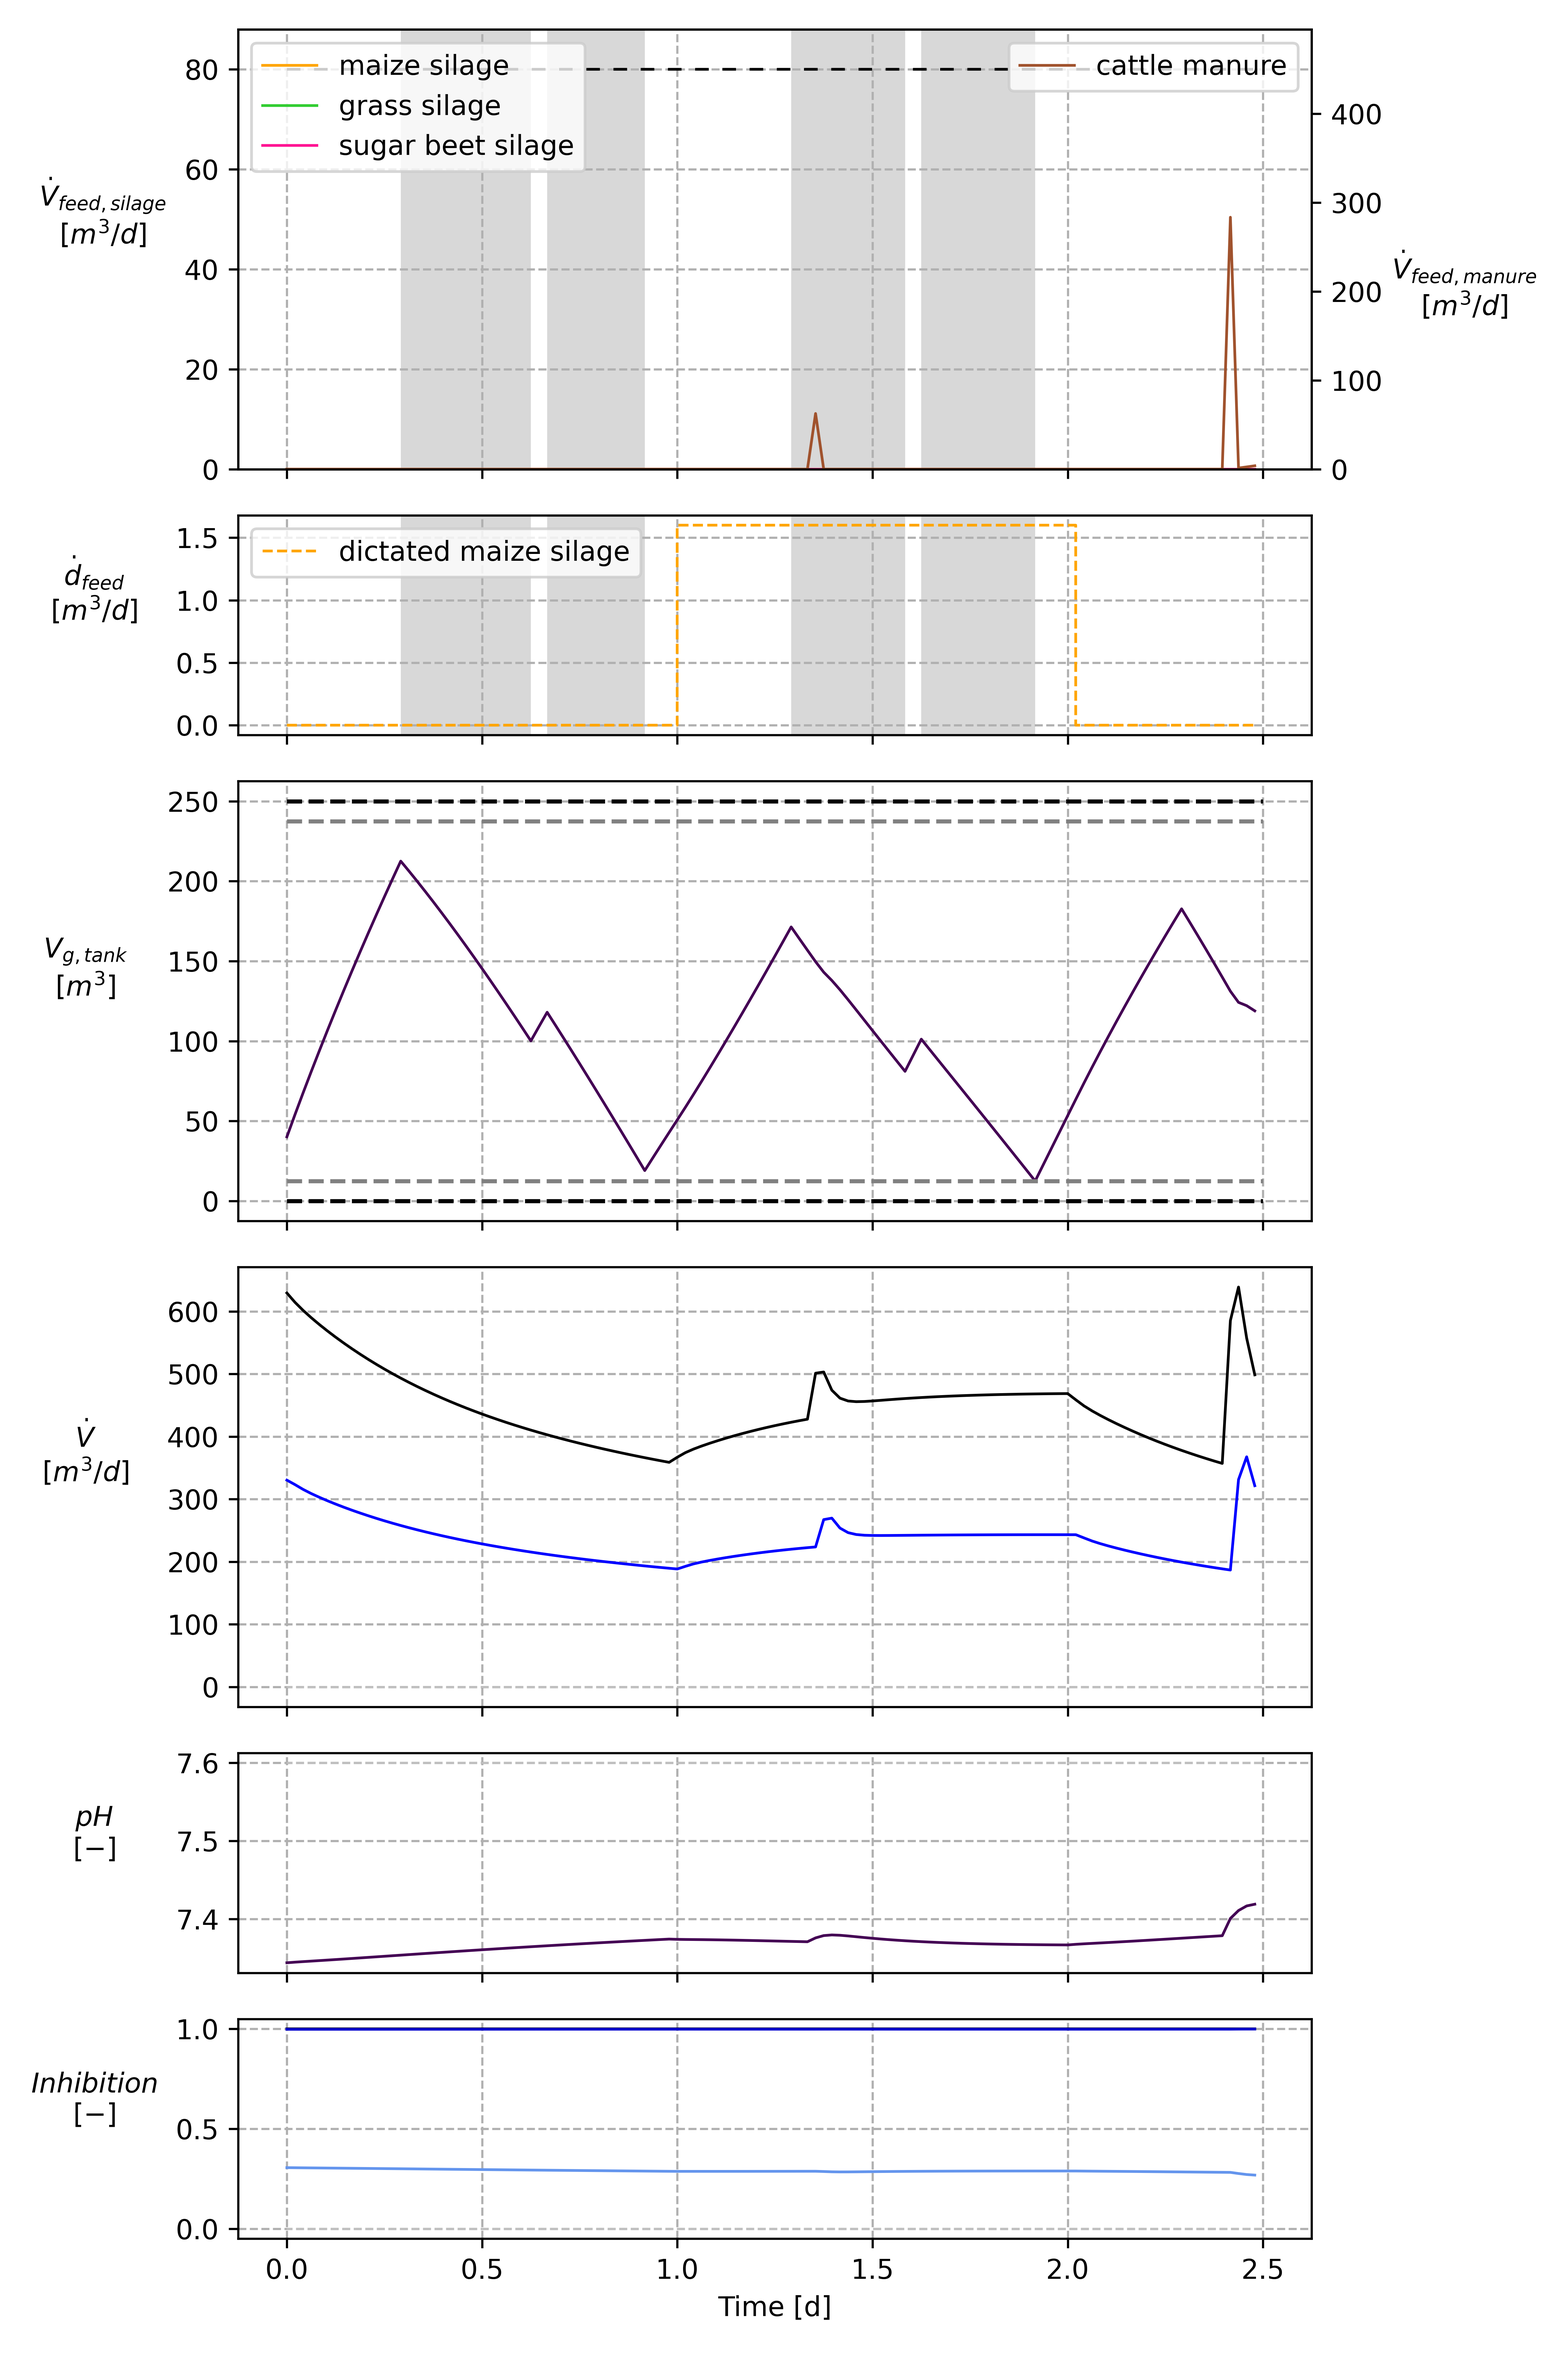
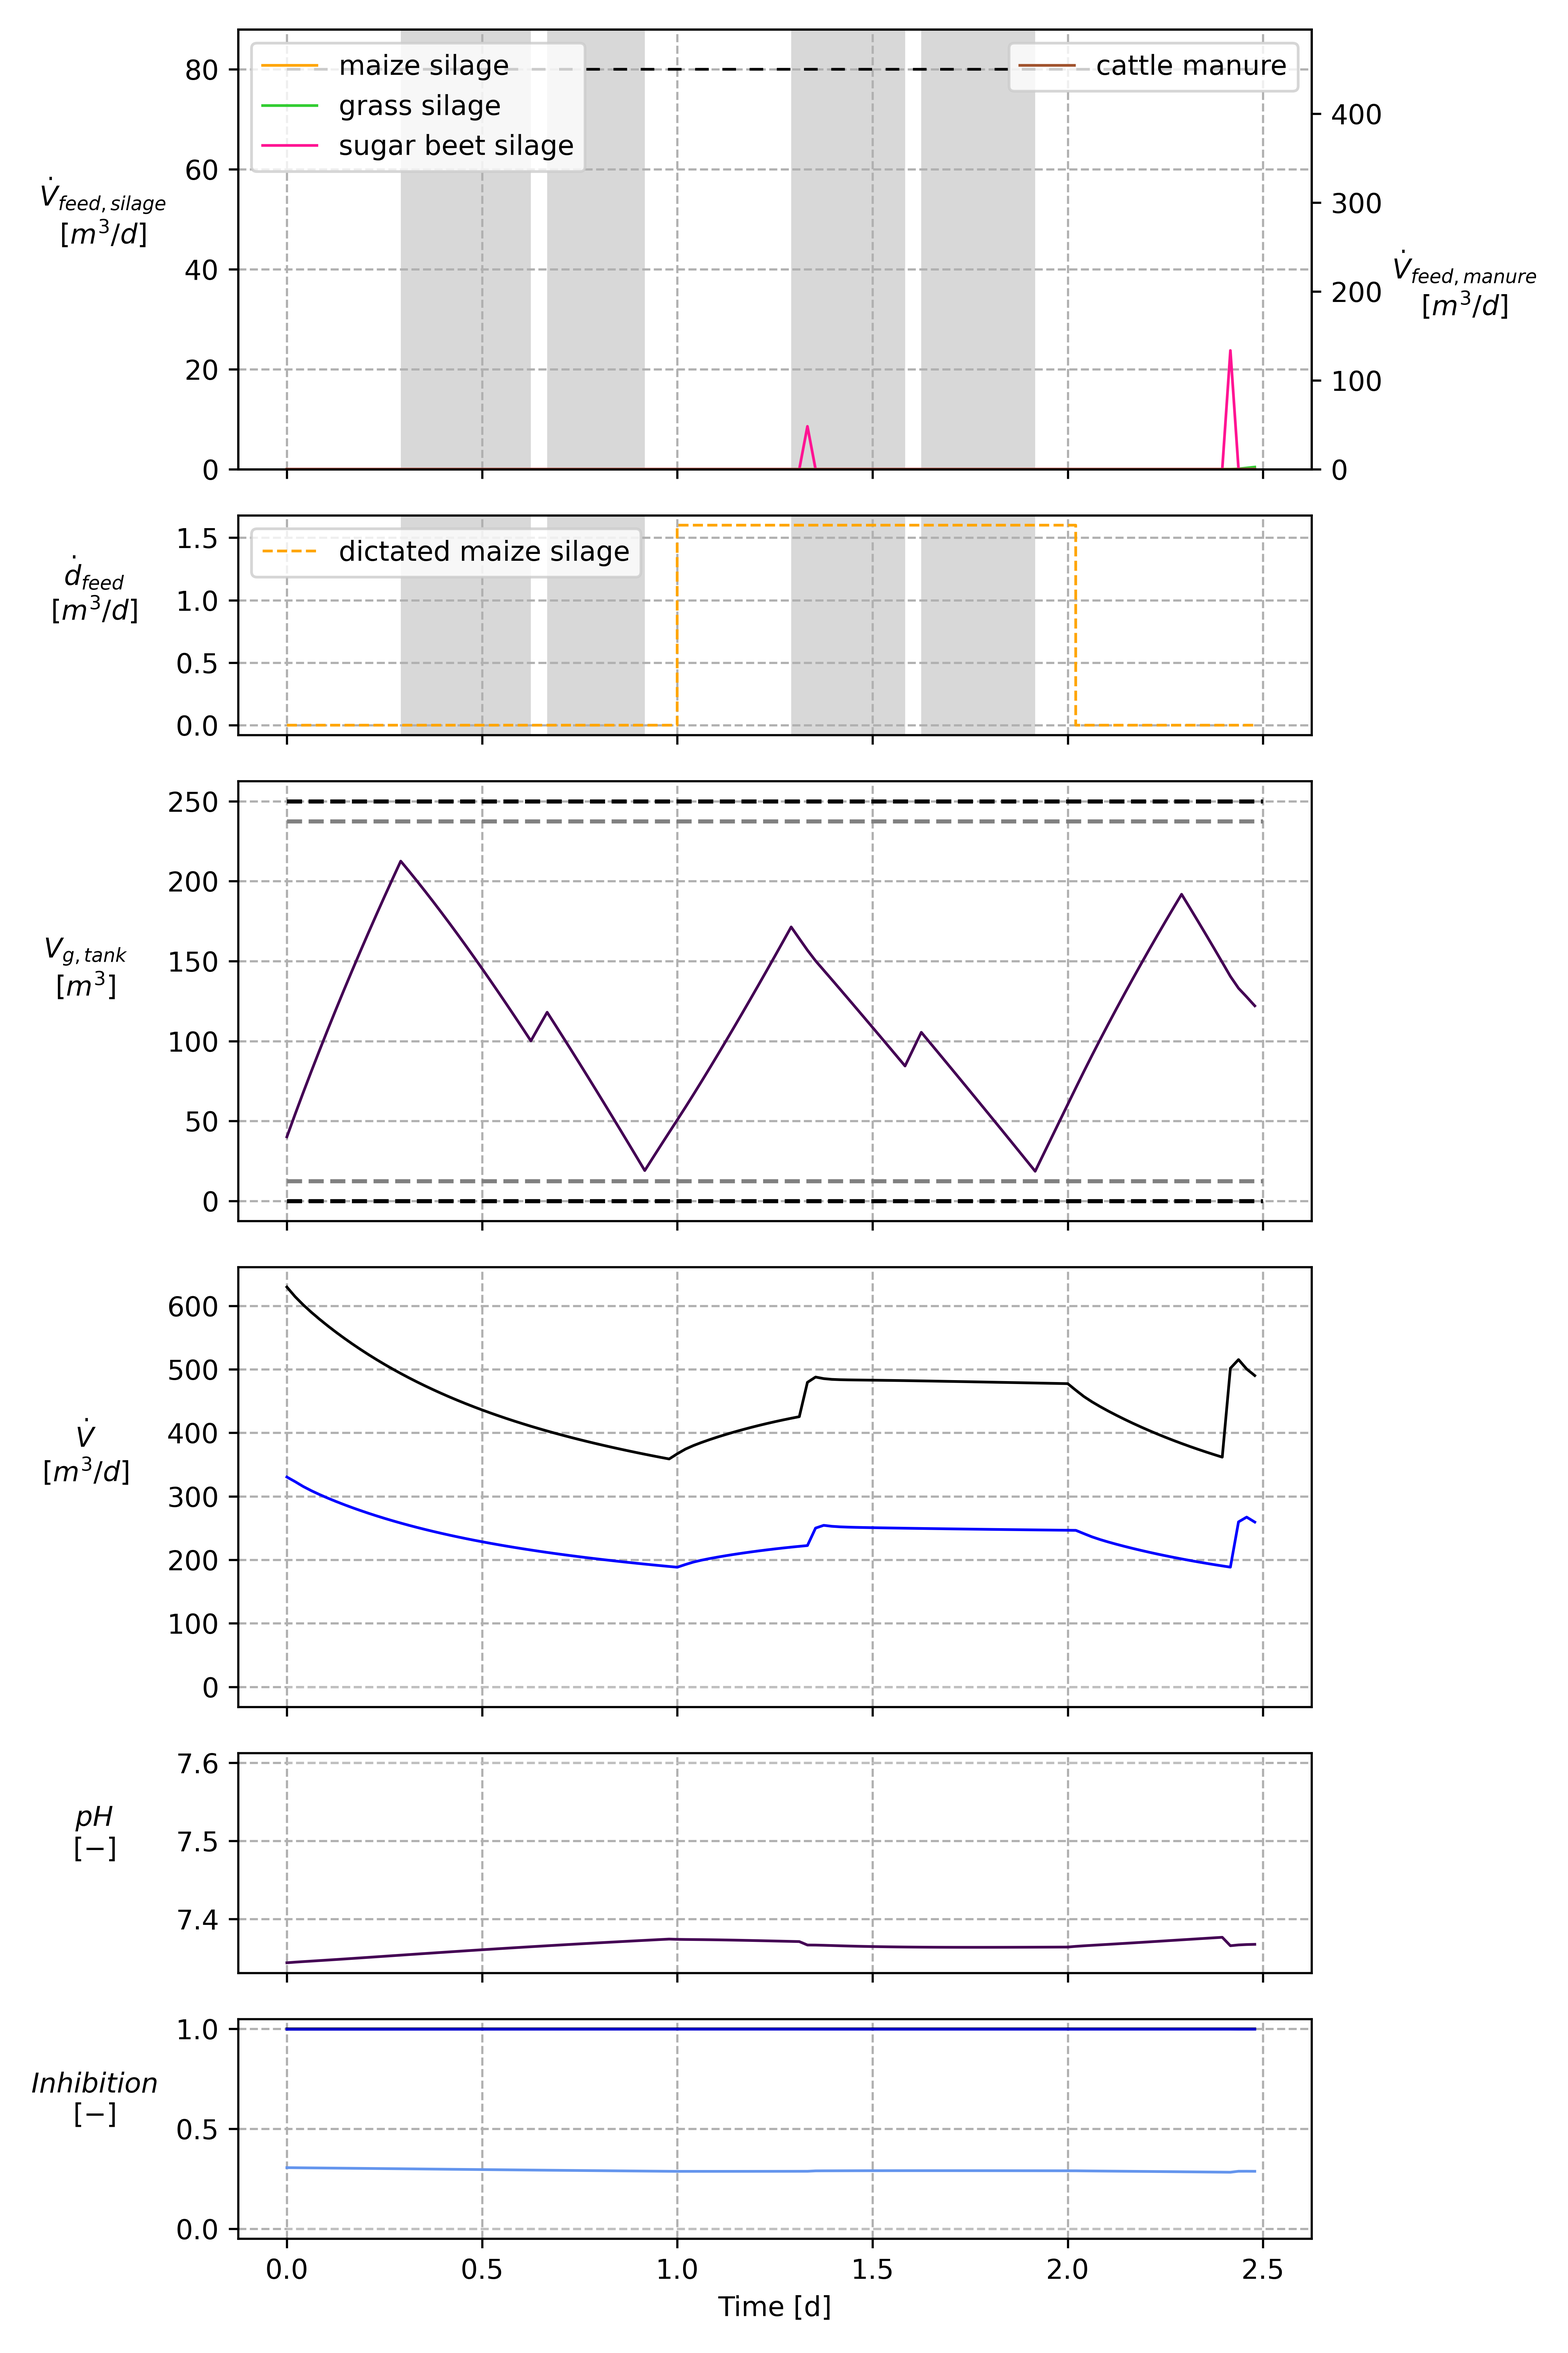
fix bug in substrate cost function (rterm)
absolute substrate vol flows need to be penalized, not normalized ones. This gave too much privilege to cattle manure

diff --git a/ad_meal_prep_control/models/adm1_r3_frac_norm.py b/ad_meal_prep_control/models/adm1_r3_frac_norm.py
@@ -26,7 +26,7 @@ def adm1_r3_frac_norm(
     model_type = "continuous"
     model = do_mpc.model.Model(model_type, "SX")
 
-    num_inputs = xi_norm[0].shape[0] - num_dictated_subs
+    num_inputs = xi_norm[0].shape[0] - num_dictated_subs  # __SH: consider only controlled substrates as real inputs
 
     xi_norm[5] = model.set_variable(
         var_type="_p", var_name="xi_ch_norm", shape=(len(xi_norm[0]), 1)
@@ -323,7 +323,7 @@ def adm1_r3_frac_norm(
         ]
     ).transpose()
 
-    # Input
+    # normalized input
     u_norm = model.set_variable(var_type="_u", var_name="u_norm", shape=(num_inputs, 1))
 
     if num_dictated_subs:
@@ -468,7 +468,7 @@ def adm1_r3_frac_norm(
     else:
         sum_u = Tu * u_norm
 
-    # Measurements
+    # Measurements, __SH: y contains first absolute feed volume flows, then actual measurements
     u_meas = model.set_meas("u_meas", Tu * u_norm, meas_noise=False)
     y_meas = []
     for idx, y in enumerate(y):

diff --git a/ad_meal_prep_control/mpc.py b/ad_meal_prep_control/mpc.py
@@ -33,6 +33,7 @@ def mpc_setup(
     cost_func: CostFunction,
     substrate_costs: list[float],
     substrate_cost_formulation: str,
+    Tu: np.ndarray,
     store_full_solution: bool,
     disturbances: Disturbances,
     gas_storage_bound_fraction: float,
@@ -187,10 +188,10 @@ def mpc_setup(
 
         if substrate_cost_formulation == "linear":
             for idx, cost in enumerate(substrate_costs):
-                sub_cost_rterms.append(f"{cost} * (model.u['u_norm'][{idx}])")
+                sub_cost_rterms.append(f"{cost} * (model.u['u_norm'][{idx}] * {Tu[idx]})")  # __SH: penalize absolute vol flows of substrates (not normalized ones)
         else:
             for idx, cost in enumerate(substrate_costs):
-                sub_cost_rterms.append(f"{cost} * (model.u['u_norm'][{idx}])**2")
+                sub_cost_rterms.append(f"{cost} * (model.u['u_norm'][{idx}] * {Tu[idx]})**2")
 
         sub_cost_rterm = " + ".join(sub_cost_rterms)
 

diff --git a/ad_meal_prep_control/simulation.py b/ad_meal_prep_control/simulation.py
@@ -197,6 +197,7 @@ class Simulation:
                 cost_func=self.scenario.controller_params.cost_func,
                 substrate_costs=[sub.cost for sub in self._subs_controlled],
                 substrate_cost_formulation=self.scenario.controller_params.substrate_cost_formulation,
+                Tu=self.Tu,
                 store_full_solution=True,
                 disturbances=self.scenario.disturbances,
                 gas_storage_bound_fraction=self.scenario.controller_params.gas_storage_bound_fraction,
@@ -429,7 +430,7 @@ class Simulation:
             self.x0_norm_estimated = self.x0_norm_estimated[:18]
             self.Tx = self.Tx[:18]
 
-        self.Tu = np.array([self.scenario.u_max[sub.state] for sub in self._subs_all])
+        self.Tu = np.array([self.scenario.u_max[sub.state] for sub in self._subs_all])  # __SH: normalization of input
         self.scenario.Tu = self.Tu
 
     def _model_setup(self):

diff --git a/ad_meal_prep_control/scenarios/scenario_2b.py b/ad_meal_prep_control/scenarios/scenario_2b.py
@@ -9,8 +9,8 @@ from ad_meal_prep_control.params_R3 import P_el_chp
 import numpy as np
 
 fill_level_setpoint = 0.4
-lterm = (f"(5*(model.x['x_19'] + model.x['x_20'] + model.aux['V_H2O']/V_GAS_STORAGE_MAX - {fill_level_setpoint})**2 +"
-         f"+ 5e-1 *(model.x['x_19'] + model.x['x_20'] + model.aux['V_H2O']/V_GAS_STORAGE_MAX - {fill_level_setpoint})**4)"
+lterm = (f"(5e2*(model.x['x_19'] + model.x['x_20'] + model.aux['V_H2O']/V_GAS_STORAGE_MAX - {fill_level_setpoint})**2 +"
+         f"+ 5e1*(model.x['x_19'] + model.x['x_20'] + model.aux['V_H2O']/V_GAS_STORAGE_MAX - {fill_level_setpoint})**4)"
          )
 
 mterm = "model.tvp['dummy_tvp']"
